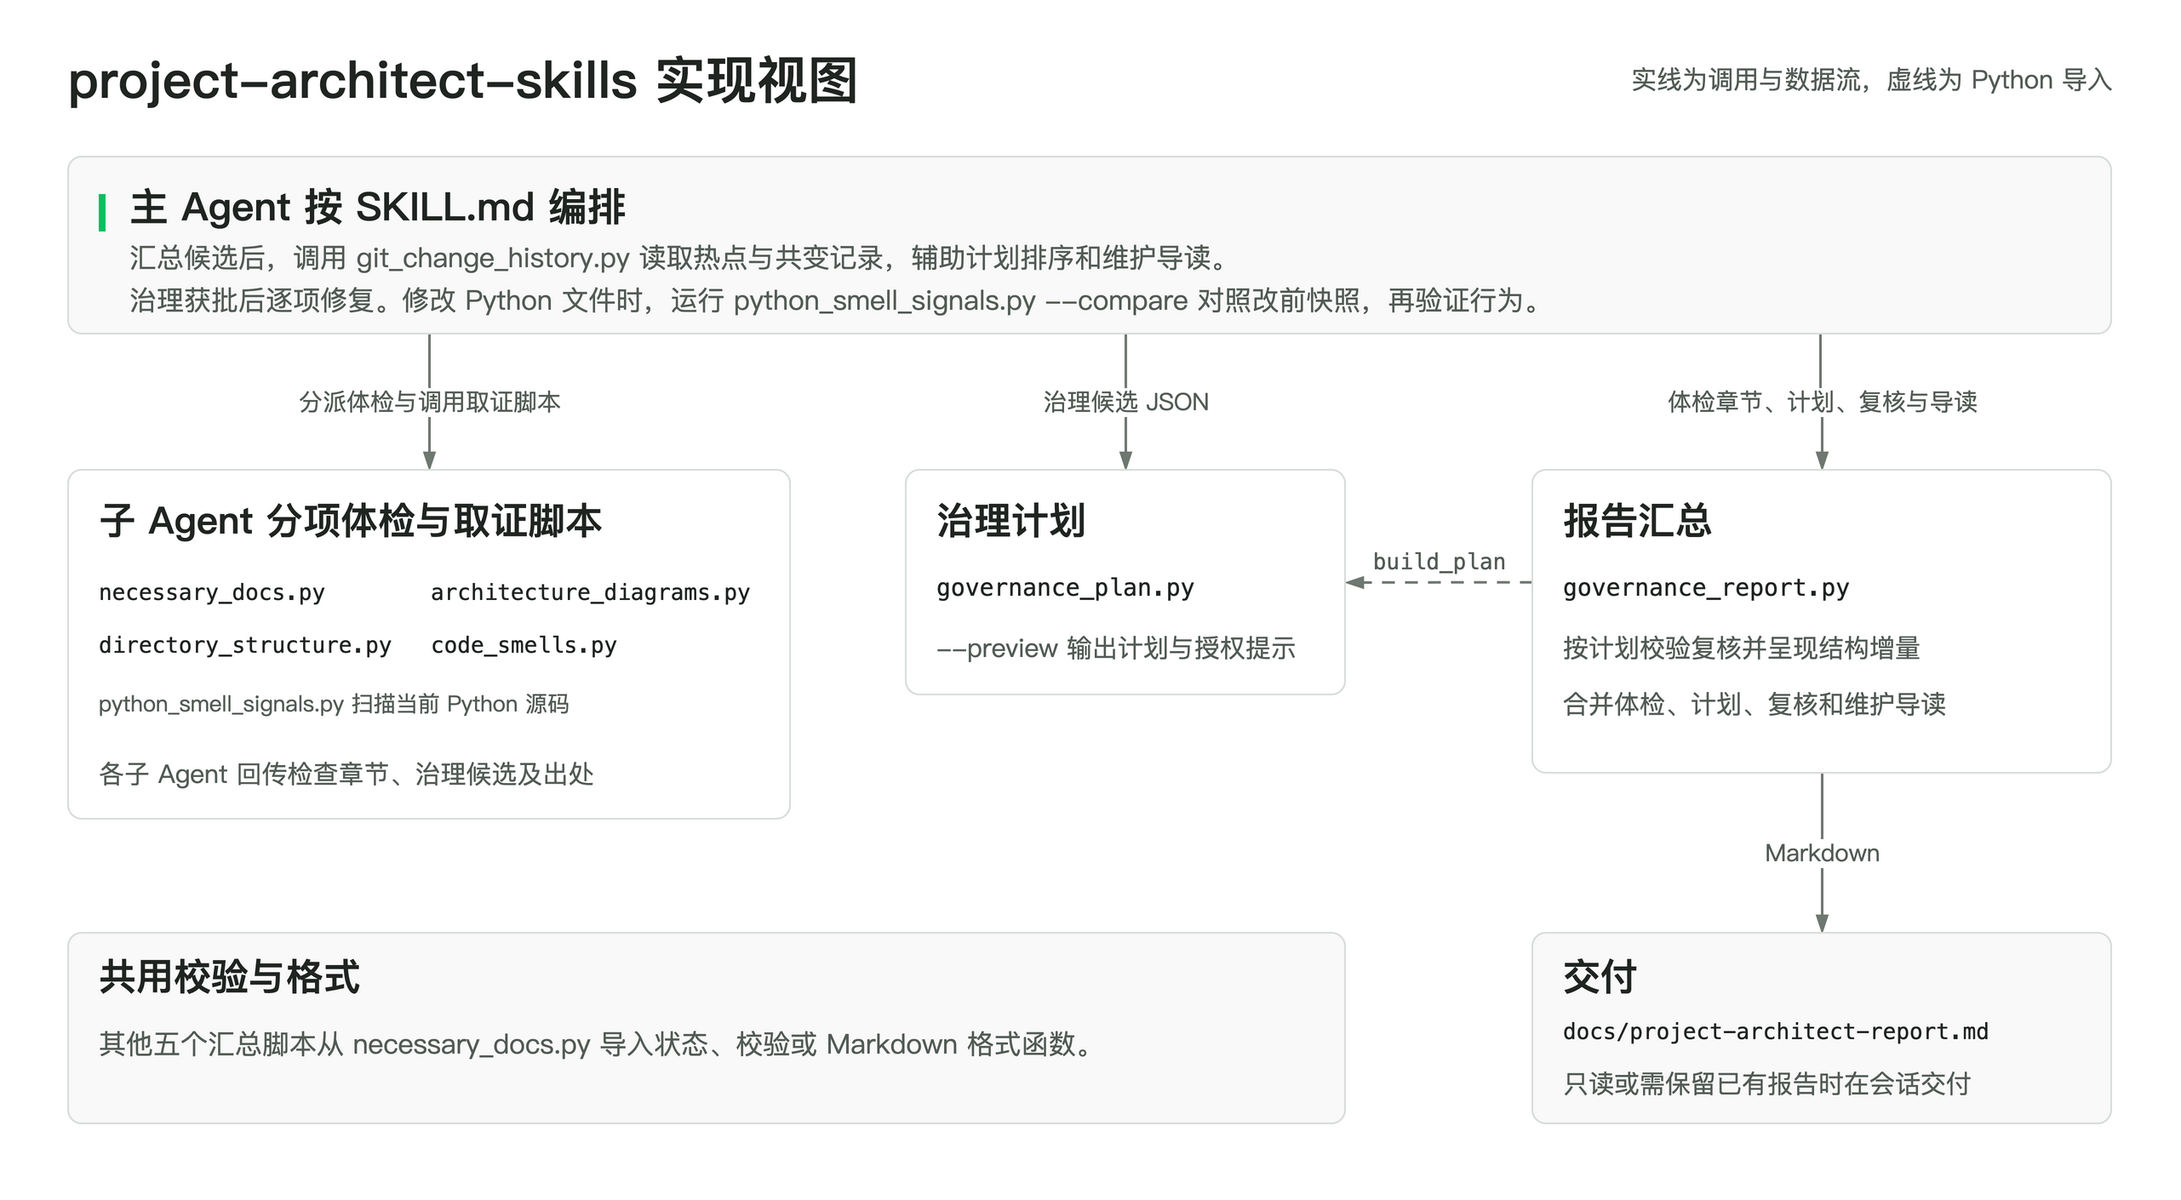
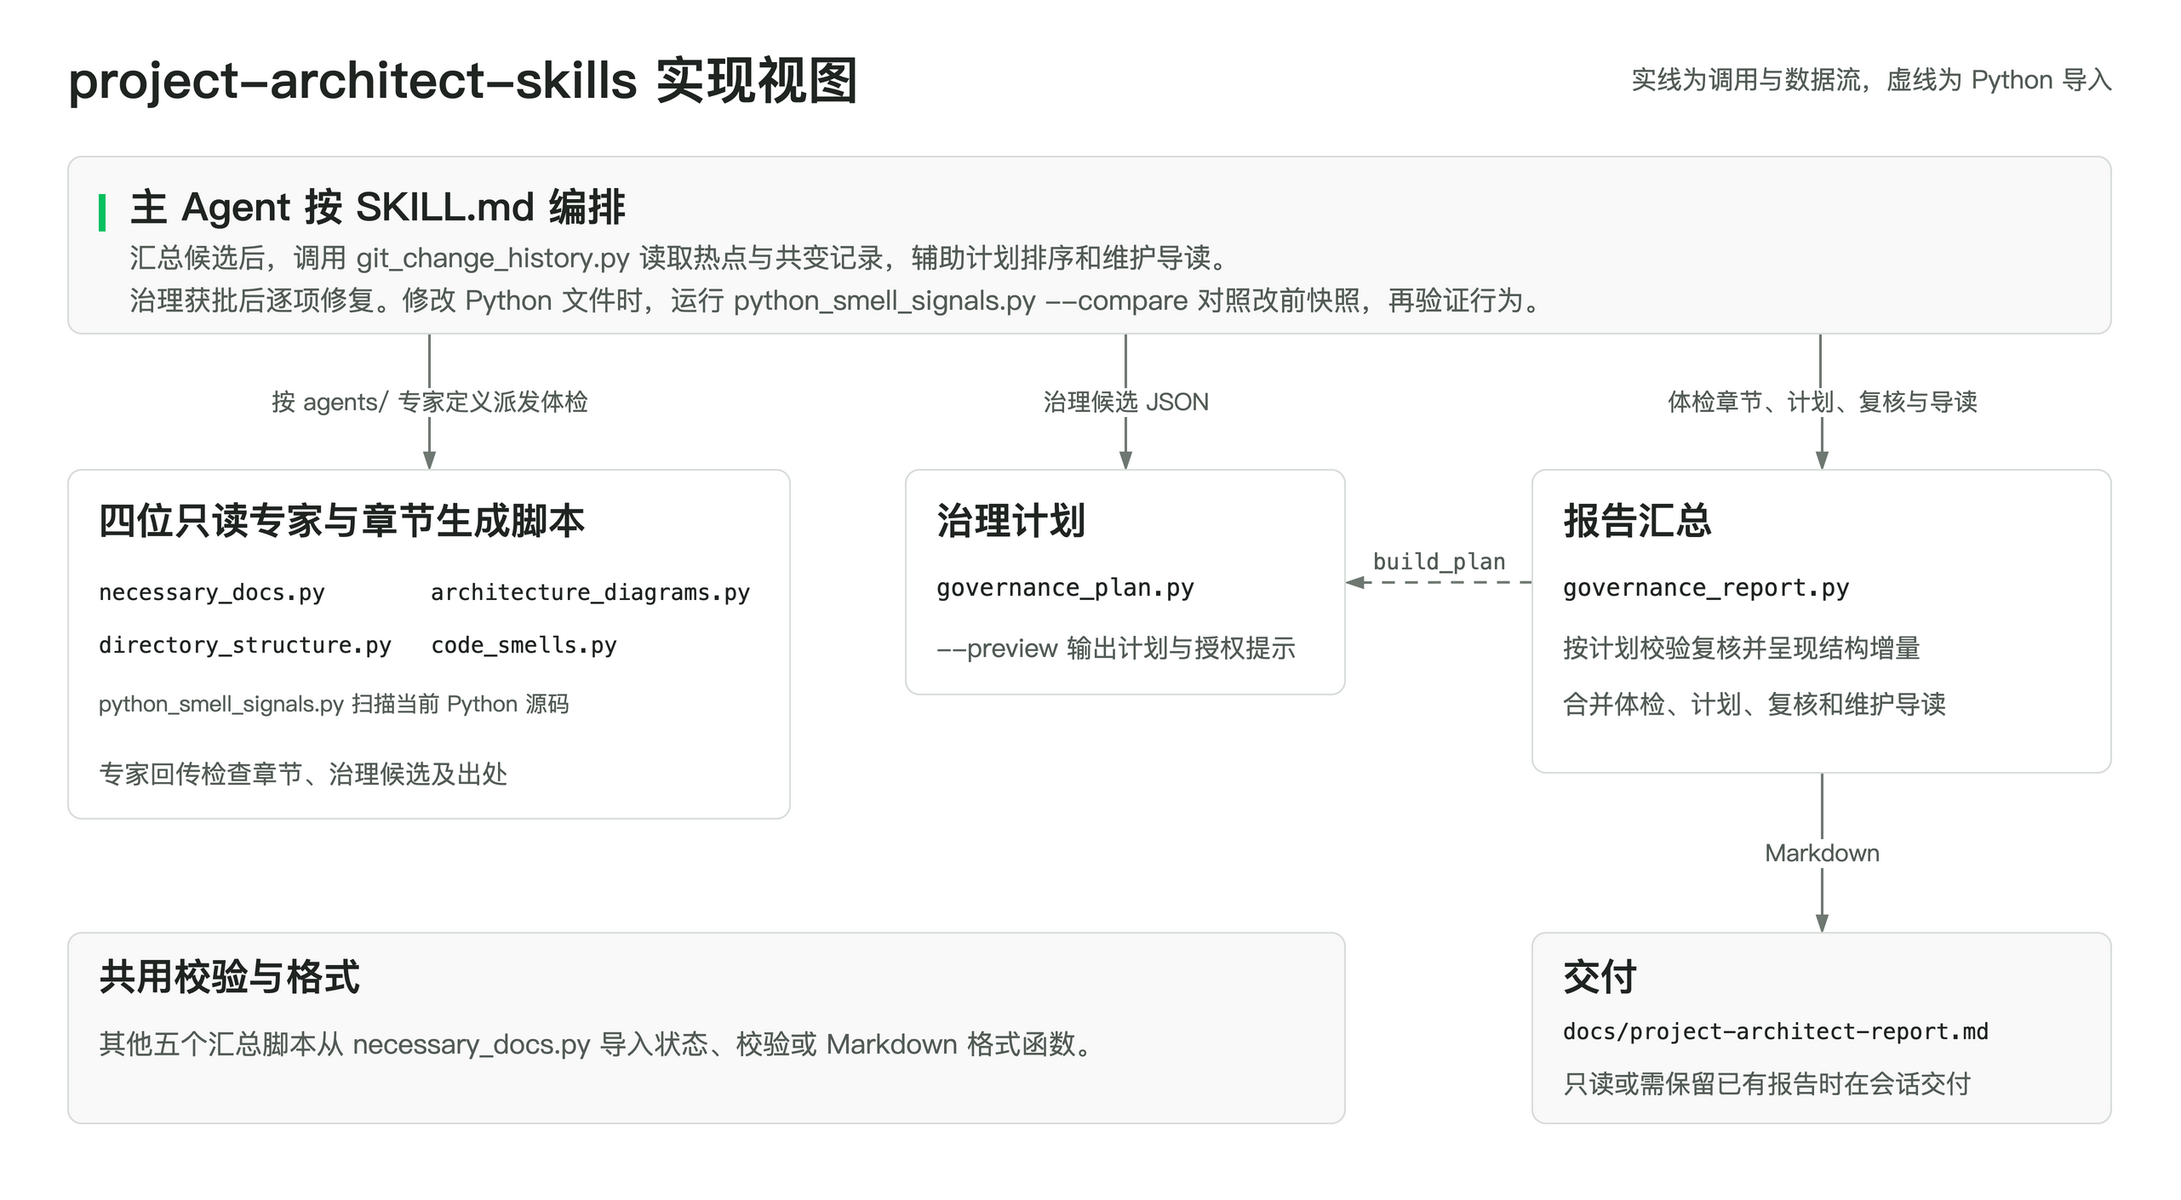
按用户意图将项目检查分派给对应专家

Changed region(s): [[0.0312, 0.4057, 0.281, 0.4681], [0.0312, 0.6241, 0.281, 0.6553], [0.1249, 0.3121, 0.281, 0.3433]]

diff --git a/docs/project-architect-skills-PRD-v0.3.md b/docs/project-architect-skills-PRD-v0.3.md
@@ -36,7 +36,7 @@ project-architect-skills
 
 | 阶段 | 目标流程中的工作 |
 | --- | --- |
-| 项目体检 | 主 Agent 按检查项派发独立的只读子 Agent，分别核对必要文档、架构图、目录结构和代码异味。各自回传检查章节、候选及出处，主 Agent 核对覆盖范围、合并重复发现后统一制定计划。 |
+| 项目体检 | 主 Agent 根据用户要核实的问题选择专家，组合请求按问题分派，显式指定的范围优先。各专家在独立的只读上下文中回传检查章节、候选及出处，主 Agent 核对覆盖范围、合并重复发现后统一制定计划。 |
 | 治理计划与授权 | 按维护影响排序，优先选证据充分、可独立验收和回退的问题。影响相近时用本地 Git 热点辅助排序。根据评估结果确定本轮推荐事项及数量，每项写清改动范围、基线、验收方法和回退办法。有可执行项时请用户在同一会话回复「同意治理」。已有明确授权的修复沿用原授权。 |
 | 执行复核 | 现有编码助手按顺序补文档、补图或调整代码。每项执行前核对当前工作区，执行后立即核对实际差异和验收结果。修改 Python 代码时，用本项改前快照对照改后的结构信号。 |
 | 维护导读 | 汇总发现、实际改动、验证证据和待确认事项。用 Git 共变线索补查可能受影响的位置。给新手指出当前可用的业务入口、已核实的调用方和下次修改的自查方法。 |
@@ -45,7 +45,7 @@ project-architect-skills
 
 ### 实现视图
 
-各子 Agent 按分工把取证记录以 JSON 传给对应的检查脚本，生成 Markdown 章节。主 Agent 按检查项合并章节，保留未查范围，并按治理目标归并候选。主 Agent 用 `git_change_history.py` 对本轮文件取证，再用 `governance_plan.py --preview` 展示待授权计划。收到确认后按原计划范围执行，用 `python_smell_signals.py --compare` 对照改动前后的 Python 结构信号。`governance_report.py` 复用 `build_plan`，按入选顺序校验复核记录，再合并检查章节、计划、复核与导读。 [Skill 入口](../skills/project-architect-skills/SKILL.md)
+四位专家依照各自定义引用的判据，把取证记录以 JSON 传给对应的检查脚本，生成 Markdown 章节。主 Agent 按检查项合并章节，保留未查范围，并按治理目标归并候选。主 Agent 用 `git_change_history.py` 对本轮文件取证，再用 `governance_plan.py --preview` 展示待授权计划。收到确认后按原计划范围执行，用 `python_smell_signals.py --compare` 对照改动前后的 Python 结构信号。`governance_report.py` 复用 `build_plan`，按入选顺序校验复核记录，再合并检查章节、计划、复核与导读。 [Skill 入口](../skills/project-architect-skills/SKILL.md)
 
 ![实现视图。Codex 派发子 Agent 体检，合并结果后展示待授权计划并等待用户确认，复核获批改动后汇总 Markdown 报告。](diagrams/implementation-architecture.png)
 
@@ -57,12 +57,12 @@ project-architect-skills
 
 ### 3.1 四项基础检查
 
-| 检查项 | 怎样判断 | 体检报告给出什么 |
-| --- | --- | --- |
-| 必要文档缺失 | 按产品、技术、架构、测试和部署文档核对交接内容，逐项确认是否适用。README、已有手册和可访问的引用文档都可提供答案 | 按类别写明已覆盖和缺少的内容、查过的位置、缺口会卡住哪一步，以及适合补入哪个现有章节。例如验证改动的方法缺失时，在「测试文档」下给出补写建议 |
-| 架构图缺失或失效 | 查找能说明主要模块及其调用或依赖关系的视图，可来自 README 内嵌的 Mermaid、draw.io、图片或项目文档链接。抽取图中的模块和关系，用代码入口或导入关系核对 | 给出图的位置和核对过的关系。已查范围内找不到图时列出需要补画的模块与关系。仅有产品功能图时指出欠缺的实现视图，已有图与源码不符时指出具体过时之处 |
-| 目录结构偏离约定 | 先查项目声明的目录职责、当前框架或构建配置，再核对实际路径。同类模块的惯例可提供线索，只有惯例时将预期归属标为待确认 | 列出规则出处、实际路径、预期归属及对导入、构建或维护的影响。例如仓库约定测试与源码同目录，这种布局符合约定 |
-| 方法级代码异味 | 在本轮已读源码中按函数或方法检查第 3.2 节的五类异味。采用已配置或经试点校准的语言规则，记录实际观测值和适用口径 | 附仓库路径、函数名、具体代码位置和对应证据。同一函数命中多类时保留各标签，合为一个治理候选 |
+| 负责专家 | 检查项 | 怎样判断 | 体检报告给出什么 |
+| --- | --- | --- | --- |
+| 项目文档专家 | 必要文档缺失 | 按产品、技术、架构、测试和部署文档核对交接内容，逐项确认是否适用。README、已有手册和可访问的引用文档都可提供答案 | 按类别写明已覆盖和缺少的内容、查过的位置、缺口会卡住哪一步，以及适合补入哪个现有章节。例如验证改动的方法缺失时，在「测试文档」下给出补写建议 |
+| 架构专家 | 架构图缺失或失效 | 查找能说明主要模块及其调用或依赖关系的视图，可来自 README 内嵌的 Mermaid、draw.io、图片或项目文档链接。抽取图中的模块和关系，用代码入口或导入关系核对 | 给出图的位置和核对过的关系。已查范围内找不到图时列出需要补画的模块与关系。仅有产品功能图时指出欠缺的实现视图，已有图与源码不符时指出具体过时之处 |
+| 目录专家 | 目录结构偏离约定 | 先查项目声明的目录职责、当前框架或构建配置，再核对实际路径。同类模块的惯例可提供线索，只有惯例时将预期归属标为待确认 | 列出规则出处、实际路径、预期归属及对导入、构建或维护的影响。例如仓库约定测试与源码同目录，这种布局符合约定 |
+| 代码整洁专家 | 方法级代码异味 | 在本轮已读源码中按函数或方法检查第 3.2 节的五类异味。采用已配置或经试点校准的语言规则，记录实际观测值和适用口径 | 附仓库路径、函数名、具体代码位置和对应证据。同一函数命中多类时保留各标签，合为一个治理候选 |
 
 完整体检对四项基础检查和五类异味均记录「发现问题」「范围内未发现」「待确认」或「不适用」，后两种结果需写明原因。只读到子目录时，仍可确认其中某个方法的异味。项目级资料未查全或外链不可访问时，其完整性标为「待确认」。架构文档核对模块职责及依赖关系的说明。图本身的缺失或失效归入架构图一项。
 

diff --git a/README.md b/README.md
@@ -10,7 +10,18 @@
 project-architect-skills
 ```
 
-默认调用时，主 Agent 把必要文档、架构图、目录结构和代码异味分别派给独立的只读子 Agent。各自在自己的上下文中取证，交回检查章节、候选及出处。主 Agent 合并重复发现，展示体检摘要，并按维护影响推荐本轮最值得优化的事项。计划给出改动范围、改前基线、验收方法和回退办法。确认后，在同一会话回复 **同意治理**，助手会按计划逐项修复和验收。已有维护任务可以直接附上，例如「我要改订单导出的列名」。只想查看某项诊断时，可以输入「用 project-architect-skills 只读检查代码异味」或指定其他检查项。[治理计划](skills/project-architect-skills/references/governance-plan.md)
+单独输入命令会检查全部四项。也可以直接描述维护问题，主 Agent 会判断要核实什么，只将相关问题派给下表中对应的专家。每位专家在独立的只读上下文中取证，交回检查章节、治理候选及出处。
+
+| 专家定义 | 负责的检查 |
+| --- | --- |
+| [项目文档专家](skills/project-architect-skills/agents/project-documentation-expert.md) | 必要文档能否支持接手者运行、验证和维护项目 |
+| [架构专家](skills/project-architect-skills/agents/architecture-expert.md) | 架构图的节点、连线和方向能否在当前实现中得到验证 |
+| [目录专家](skills/project-architect-skills/agents/directory-expert.md) | 文件路径是否符合项目约定和生效配置 |
+| [代码整洁专家](skills/project-architect-skills/agents/clean-code-expert.md) | 长方法、深层嵌套、多段嵌套逻辑、复杂条件表达式和复杂方法 |
+
+主 Agent 合并重复发现，按维护影响推荐本轮修复事项。计划列出改动范围、基线、验收方法和回退办法。在同一会话回复 **同意治理** 后，助手按计划逐项修复和验收。[治理计划](skills/project-architect-skills/references/governance-plan.md)
+
+例如，输入「README 里的订单调用图和代码对得上吗？」会交给架构专家。输入「新人能照说明跑通测试吗？订单测试放的位置也帮我看一下」会分别交给项目文档专家和目录专家。也可以直接限定范围，例如「用 project-architect-skills 请目录专家只读检查 tests/ 的归属」。
 
 检查前先判断项目规模。小项目通查相关资料，中等项目分模块核对，大项目优先检查主要业务路径和跨模块依赖。预览和最终报告按检查项列出选定的模块或入口，漏交的范围标为「未查」。判档和取证方式见[项目规模与取证范围](skills/project-architect-skills/references/project-size.md)。
 
@@ -99,7 +110,7 @@ git -C "$governance_project" -c user.name=Fixture -c user.email=fixture@example.
 printf '%s\n' "$governance_project"
 ```
 
-在可写的 Codex 会话中打开输出的临时目录，输入 `project-architect-skills`。在支持子 Agent 的宿主中，核对四项体检各自有独立的派发与回传记录，计划在汇总后统一展示。核对体检摘要和待授权计划，列出的两项分别指向 `README.md` 和 `test_names.py`。在临时仓库根目录运行 `git status --short`，应无输出。随后在同一会话回复 **同意治理**，完成后核对以下结果。
+在可写的 Codex 会话中打开输出的临时目录，输入 `project-architect-skills`。在支持子 Agent 的宿主中，核对四项体检是否各自加载了对应的专家定义，并有独立的派发与回传记录，计划在汇总后统一展示。核对体检摘要和待授权计划，列出的两项分别指向 `README.md` 和 `test_names.py`。在临时仓库根目录运行 `git status --short`，应无输出。随后在同一会话回复 **同意治理**，完成后核对以下结果。
 
 - `README.md` 增加验收步骤及预期输出。`test_names.py` 移到 `tests/`。
 - 在临时仓库根目录运行 `python3 -B names.py`，仍输出 `Ada, Bob`。运行 `python3 -B -m unittest discover -s tests`，1 项通过。

diff --git a/skills/project-architect-skills/agents/clean-code-expert.md b/skills/project-architect-skills/agents/clean-code-expert.md
@@ -1,0 +1,12 @@
+---
+name: clean-code-expert
+description: 代码整洁专家。按具体方法检查长方法、深层嵌套、多段嵌套逻辑、复杂条件表达式和复杂方法。
+---
+
+# 代码整洁专家
+
+沿派发的入口读取方法、调用方及测试，按[代码异味判据](../references/code-smells.md)分别判断五类异味。记录限定名、行区间和测量口径。Python 可用 [python_smell_signals.py](../scripts/python_smell_signals.py) 定位值得复查的函数。
+
+对照业务路径解释每个信号为何增加维护难度。例如认定多段嵌套逻辑，要找出同一可达路径上两段独立的嵌套区间，说明各自职责。同一方法的多类发现保留各自证据，合为一个候选。模块级关联诊断按判据单列；用户指定 SOLID、设计模式或专项重构时，沿指定目标取证。
+
+用 [code_smells.py](../scripts/code_smells.py) 生成「代码异味」章节。对建议重构的方法，给出能区分关键分支的输入、原有可观察行为及验证入口，供主 Agent 评估改动和验收。

diff --git a/skills/project-architect-skills/agents/project-documentation-expert.md b/skills/project-architect-skills/agents/project-documentation-expert.md
@@ -1,0 +1,12 @@
+---
+name: project-documentation-expert
+description: 项目文档专家。检查接手项目所需的产品、技术、架构、测试与部署说明能否支持实际维护任务。
+---
+
+# 项目文档专家
+
+从接手者要完成的动作出发判断说明是否够用。先从交付方式和维护入口确认哪些文档内容适用，再沿 README、手册和引用寻找答案。同一份说明可以覆盖多个类别。
+
+对照真实入口核实关键步骤。例如验证说明给了命令，就核对它要求的工作目录、输入和可判断成败的结果。资料读不到时，仅将依赖这份资料的判断标为「待确认」。文字中的模块职责由你核对，本轮同时检查架构图时，将图件缺失、连线失效等线索交给主 Agent，与架构专家的发现归并。
+
+按[必要文档判据](../references/necessary-documents.md)整理记录，用 [necessary_docs.py](../scripts/necessary_docs.py) 生成「必要文档」章节。候选指出接手者卡在哪一步、查过哪些出处，以及适合补写的现有章节。

diff --git a/skills/project-architect-skills/agents/architecture-expert.md b/skills/project-architect-skills/agents/architecture-expert.md
@@ -1,0 +1,12 @@
+---
+name: architecture-expert
+description: 架构专家。检查项目是否需要实现视图，并沿代码入口验证架构图中的模块、边界与依赖方向。
+---
+
+# 架构专家
+
+先从本轮业务入口追踪真实的调用、依赖或数据流，说明维护者需要借助图理解哪段关系。单入口工具可以据此判为「不适用」。
+
+打开项目引用的视图，按图例逐条核对节点和连线。遇到方向疑点时，追到注册、转发或消费位置，区分调用方向与数据流向。多张图可以共同覆盖一条路径。只有产品功能图时，指出实现层仍待解释的具体关系；关键图件不可读时标明受影响的判断。
+
+按[架构图判据](../references/architecture-diagrams.md)整理记录，用 [architecture_diagrams.py](../scripts/architecture_diagrams.py) 生成「架构图」章节。对已确认的差异并列给出图件位置、代码出处和需要修订的节点或关系。

diff --git a/skills/project-architect-skills/agents/directory-expert.md b/skills/project-architect-skills/agents/directory-expert.md
@@ -1,0 +1,12 @@
+---
+name: directory-expert
+description: 目录专家。根据适用的仓库约定和生效配置，判断源码、测试与其他文件的实际归属。
+---
+
+# 目录专家
+
+从选定文件的实际职责出发，查找约束它所在位置的仓库或模块约定，再核对构建、包导出、路由或测试发现配置。留意局部例外、生成目录和链接入口。
+
+例如仓库允许测试与源码共置，就按该模块的约定检查。只有相邻模块的布局可供类比时，把预期位置标为「待确认」。确认偏离后，沿导入或发现规则核对移动文件会影响的入口。
+
+按[目录结构判据](../references/directory-structure.md)整理记录，用 [directory_structure.py](../scripts/directory_structure.py) 生成「目录结构」章节。对已确认的偏离给出实际路径、预期归属、适用规则出处和移动时需一并验证的位置。

diff --git a/AGENTS.md b/AGENTS.md
@@ -8,7 +8,7 @@
 
 本项目提供一个 Codex Skill，用于核对交接文档、架构图、目录结构和代码异味。修改 Skill 时，请编辑 `skills/project-architect-skills/` 下的源文件。Codex 通过符号链接 `.agents/skills/project-architect-skills` 加载该目录。
 
-- `SKILL.md` 定义检查流程，包括如何收集证据和交付报告。
+- `SKILL.md` 定义检查流程，按检查项路由到 `agents/` 下的四份专家定义。专家定义说明职责、取证方法和回传内容。
 - `references/necessary-documents.md` 定义文档类别、各类检查项、状态标签和 JSON 检查记录的格式。
 - `scripts/necessary_docs.py` 校验检查记录，并生成 Markdown 报告。
 - `references/architecture-diagrams.md` 定义图件取证、源码对照和修订流程。`scripts/architecture_diagrams.py` 校验对照记录并汇总架构图章节。
